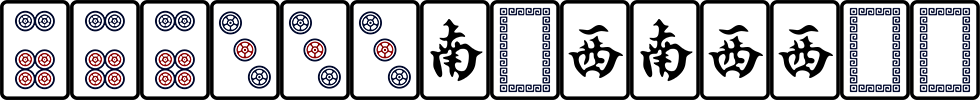
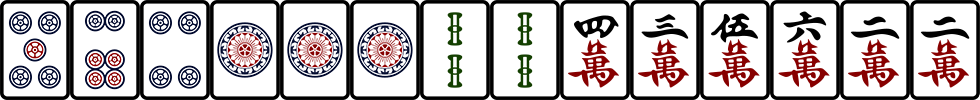
backend: switch to real model

Changed region(s): [[0.1531, 0.06, 1.0, 0.93], [0.0, 0.39, 0.0612, 0.9], [0.0, 0.09, 0.0612, 0.36]]

diff --git a/backend/src/main.py b/backend/src/main.py
@@ -60,7 +60,7 @@ def backend_main(others_settings=None, output_filename=None):
 
 
 # Core logic of backend
-def final_backend_main(file_path: str, others_settings=None): 
+def final_backend_main(file_path: str, others_settings=None, output_filename=None): 
     if others_settings is None:
         others_settings = others
 
@@ -90,7 +90,13 @@ def final_backend_main(file_path: str, others_settings=None):
     # Generate picture of the winning tiles
     print("Generating winning tiles image...")
     tiles = unpackage_breakdown_list(final_breakdown)
-    tile_generation(tiles, output=True)
+    
+    save_path = None
+    if output_filename:
+        save_path = os.path.join(_this_dir, "..", "static", "outputs", output_filename)
+        os.makedirs(os.path.dirname(save_path), exist_ok=True)
+        
+    tile_generation(tiles, output=True, save_path=save_path)
 
     return final_money, final_breakdown
 

diff --git a/backend/app.py b/backend/app.py
@@ -15,7 +15,7 @@ from src.models import Game, Player, RoundRecord
 load_dotenv() # Load environment variables from .env
 
 # Import your core functions from the src package
-from src.main import backend_main
+from src.main import final_backend_main
 
 # --- Flask App Configuration ---
 UPLOAD_FOLDER = 'static/uploads'
@@ -212,7 +212,7 @@ def analyze_hand():
                 "base": int(request.form.get('base', 100)),
                 "bonus": int(request.form.get('bonus', 30)),
             }
-            final_money, final_breakdown = backend_main(others, output_filename=output_filename)
+            final_money, final_breakdown = final_backend_main(image_path, others_settings=others, output_filename=output_filename)
             
             # Future Phase 3 Game Update Logic goes here (e.g. updating DB, socketio.emit)
             
